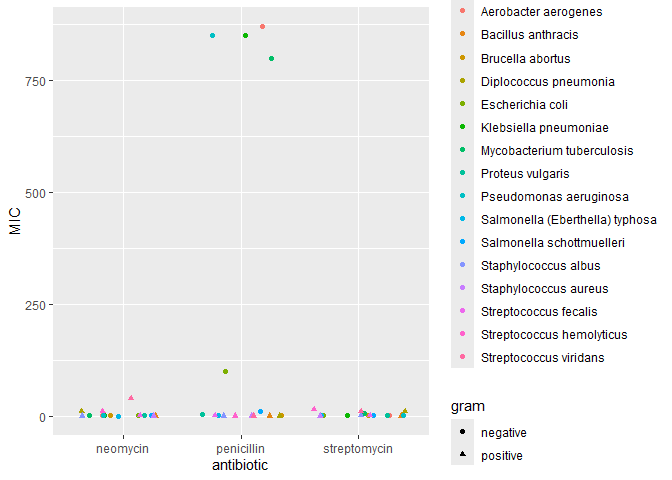
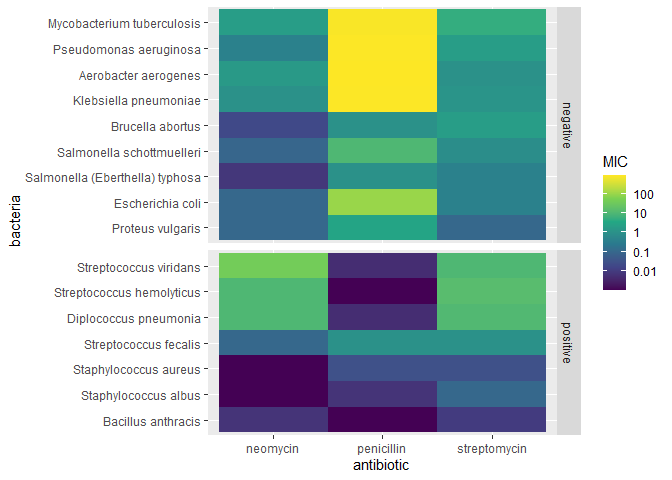
Redo c05

diff --git a/challenges/c05-antibiotics-assignment.md b/challenges/c05-antibiotics-assignment.md
@@ -188,14 +188,35 @@ df_antibiotics_long <-
   ) 
 
 df_antibiotics_long %>% 
-  ggplot(aes(antibiotic, MIC, color = bacteria, shape = gram)) +
-  geom_jitter(
-    width = .4,
-    height = 0
+  mutate(bacteria = fct_reorder(bacteria, MIC)) %>% 
+  ggplot(aes(antibiotic, bacteria, fill = MIC)) +
+  geom_tile() +
+  facet_grid(gram ~ ., scales = "free_y", space = "free_y") +
+  scale_fill_viridis_c(
+    trans = "log10",
+    breaks = c(0.01, 0.1, 1, 10, 100, 1000),
+    labels = c("0.01", "0.1", "1", "10", "100", "1000")
   )
 ```
 
 ![](c05-antibiotics-assignment_files/figure-gfm/q1.1-1.png)<!-- -->
+
+``` r
+  # ggplot(aes(antibiotic, MIC)) +
+  # geom_jitter(
+  #   width = .4,
+  #   height = 0
+  # ) +
+  # geom_text_repel(
+  #   aes(label = bacteria),
+  #   color = "black",
+  #   size = 3,
+  #   max.overlaps = Inf
+  # ) +
+  # facet_wrap(~gram) +
+  # scale_y_log10() +
+  # geom_hline(yintercept = 0.1)
+```
 
 #### Visual 2 (All variables)
 
@@ -213,7 +234,15 @@ your other visuals.
 df_antibiotics_long %>% 
   ggplot(aes(antibiotic, MIC, color = gram)) +
   geom_col() +
-  facet_wrap(~bacteria)
+  facet_wrap(~bacteria, ncol = 3) +
+  scale_y_log10() +
+  theme(
+    axis.text.x = element_text(
+      angle = 45,
+      hjust = 1,
+      vjust = 1
+    )
+  ) 
 ```
 
 ![](c05-antibiotics-assignment_files/figure-gfm/q1.2-1.png)<!-- -->
@@ -232,7 +261,12 @@ your other visuals.
 df_antibiotics_long %>% 
   filter(antibiotic == "penicillin") %>% 
   ggplot(aes(gram, MIC)) +
-  geom_boxplot()
+  geom_boxplot() +
+  scale_y_log10() +
+  geom_hline(yintercept = 0.1) +
+  labs(
+    title = "MIC of Penicillin on negative and positive gram bacteria"
+  )
 ```
 
 ![](c05-antibiotics-assignment_files/figure-gfm/q1.3-1.png)<!-- -->
@@ -251,7 +285,16 @@ your other visuals.
 
 df_antibiotics %>% 
   ggplot(aes(streptomycin, neomycin, color = gram)) +
-  geom_point()
+  geom_point() +
+  scale_y_log10() +
+  scale_x_log10() +
+  geom_hline(yintercept = 0.1) +
+  geom_vline(xintercept = 0.1) +
+  labs(
+    title = "Comparing efficacy of neomycin and streptomycin"
+  ) +
+  xlab("Streptomycin MIC") +
+  ylab("Neomycin MIC")
 ```
 
 ![](c05-antibiotics-assignment_files/figure-gfm/q1.4-1.png)<!-- -->
@@ -269,8 +312,14 @@ your other visuals.
 # WRITE YOUR CODE HERE
 
 df_antibiotics_long %>% 
-  ggplot(aes(antibiotic, MIC)) +
-  geom_boxplot()
+  ggplot(aes(antibiotic, MIC, shape = gram)) +
+  geom_boxplot() +
+  scale_y_log10() +
+  geom_hline(yintercept = 0.1) +
+  geom_jitter(
+    width = .4,
+    height = 0
+  )
 ```
 
 ![](c05-antibiotics-assignment_files/figure-gfm/q1.5-1.png)<!-- -->
